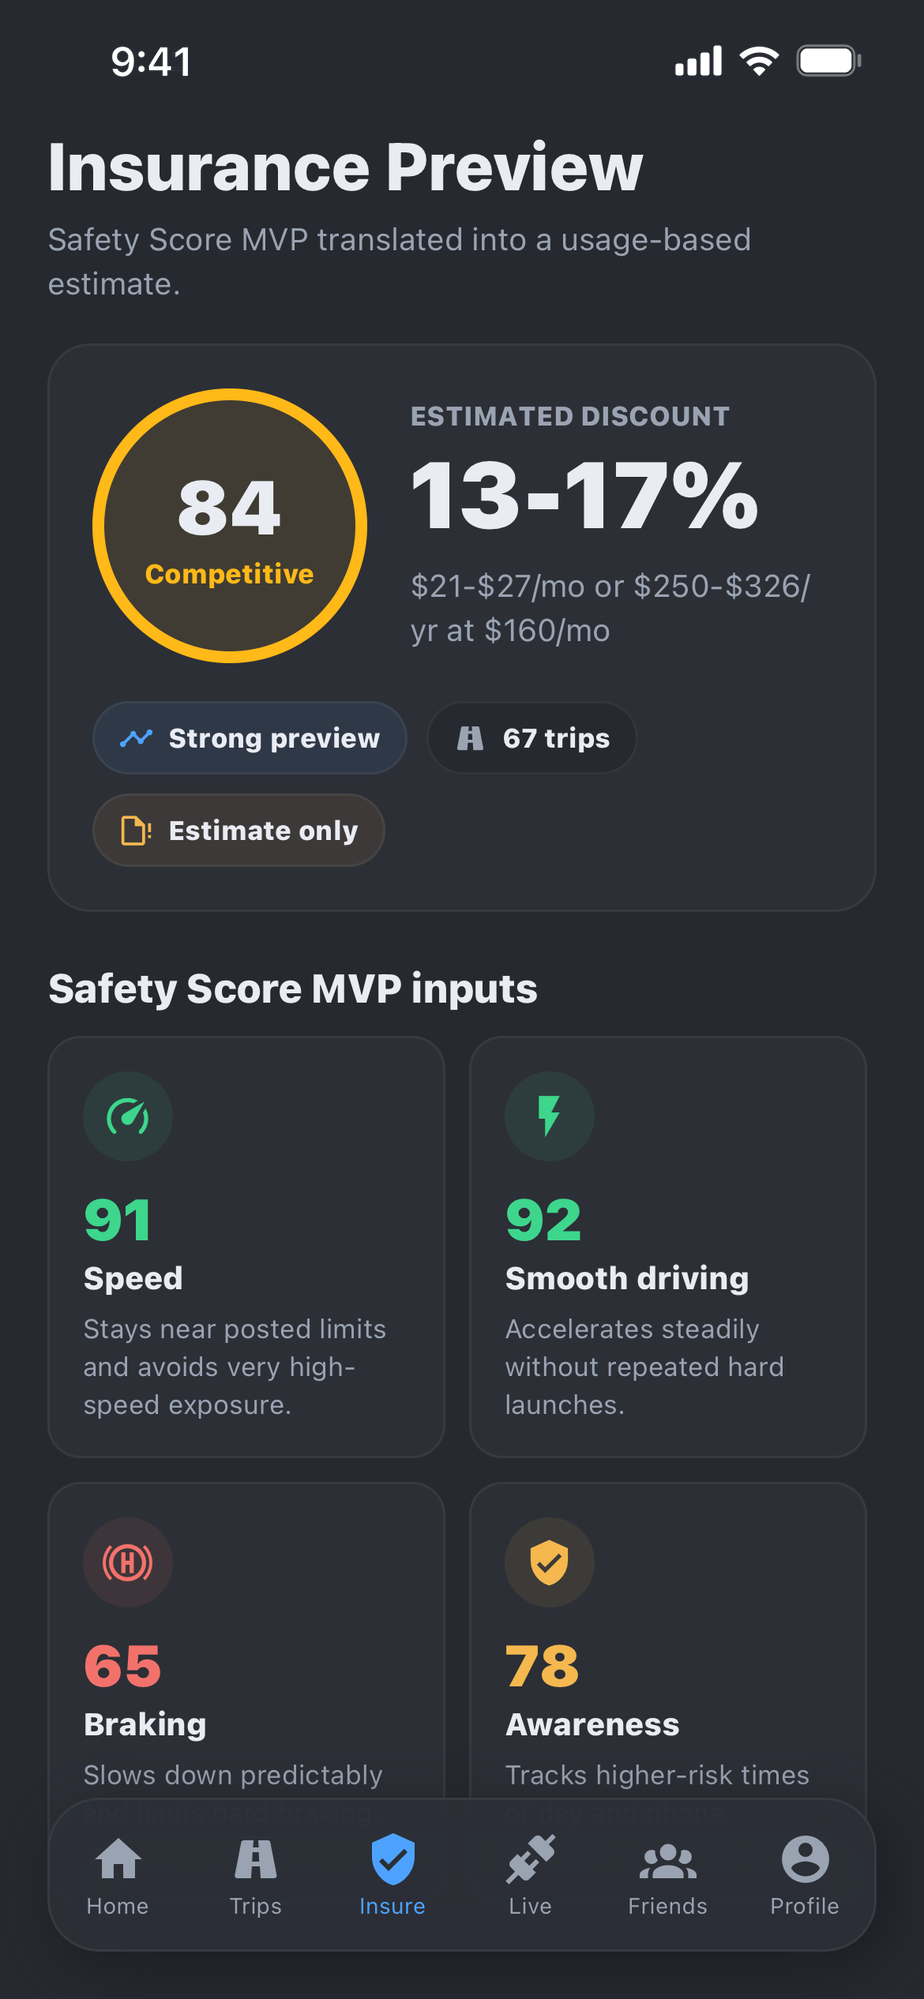
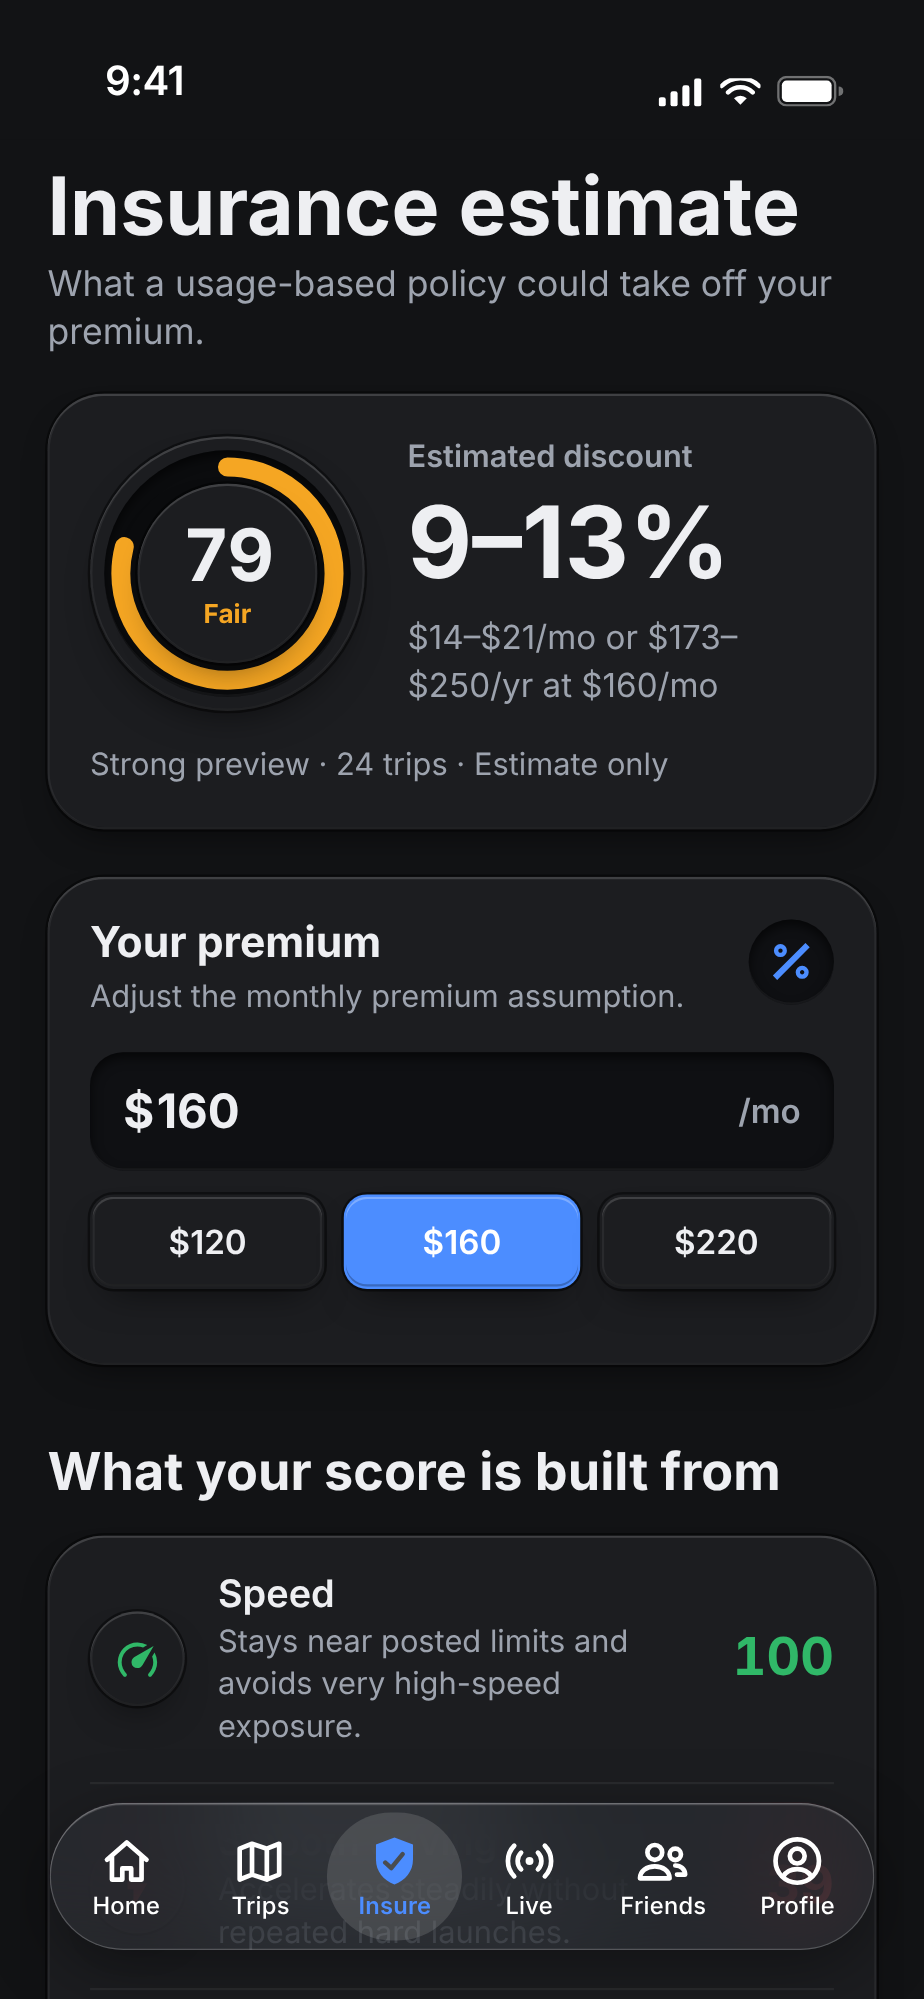
feat: show the current app screens in a natural-titanium frame
Replaces the seven app screenshots with captures of the current app
(redesigned Home, Trips, trip map, Insure, Friends, Profile and its
rewards list, with the iOS tab bar), and updates their alt text to
match what each one now shows. The phone frame's rail and side buttons
take a natural-titanium colour in place of the dark one.

The trip map uses demo data for a public drive, so no real route or
address is published.

Claude-Session: https://claude.ai/code/session_01UBjPSoPJFrpqMYdj42rRvZ

diff --git a/content/site.ts b/content/site.ts
@@ -48,7 +48,7 @@ export const hero = {
   ],
   image: "/images/app/home.png",
   imageAlt:
-    "Wayborne home screen showing a safety score of 84 with sub-scores for speed, smooth driving, braking, and awareness",
+    "Wayborne home screen showing a safety score of 79 with sub-scores for speed, smooth driving, braking, and awareness",
 } as const;
 
 export const showcase = {
@@ -79,7 +79,7 @@ export const trips = {
       heading: "The route behind the score",
       body: "Each trip keeps its own map with the points Wayborne recorded, and pins every safety event to the spot it happened, down to your speed and the limit you passed.",
       image: "/images/app/trip-map.png",
-      alt: "Wayborne trip detail map for a drive on Interstate 90, with a speeding event pinned to the route showing 71 mph in a 65 zone",
+      alt: "Wayborne trip map for a drive on Loop 360, with five safety events pinned along the route",
     },
   ],
 } as const;
@@ -90,7 +90,7 @@ export const insurance = {
   heading: "See what your driving is worth",
   body: "Wayborne translates your safety score into a usage-based insurance estimate: the discount range, what it saves per month and per year, and which behaviors are carrying it.",
   image: "/images/app/insurance.png",
-  alt: "Wayborne insurance preview showing an estimated 13-17% discount based on a safety score of 84",
+  alt: "Wayborne insurance estimate showing a 9-13% estimated discount based on a safety score of 79",
   points: [
     {
       eyebrow: "A range, not a promise.",
@@ -113,7 +113,7 @@ export const progress = {
       heading: "Streaks, tiers, and challenges",
       body: "Keep a driving streak alive, climb from Platinum toward Sapphire, and work through challenges that reward specific habits.",
       image: "/images/app/profile.png",
-      alt: "Wayborne profile screen showing a driving streak, driver percentile, Platinum tier, and challenges",
+      alt: "Wayborne profile screen showing a driving streak, driver percentile, Silver tier, and challenges",
     },
     {
       heading: "Trophies for the long haul",
@@ -130,7 +130,7 @@ export const friends = {
   heading: "Compare scores. Not locations.",
   body: "Add friends by email or invite code and see how your safety score stacks up. Wayborne shares only the summary you choose, never raw trip routes or location points.",
   image: "/images/app/friends.png",
-  alt: "Wayborne friends screen showing a leaderboard and sharing controls",
+  alt: "Wayborne friends screen showing a friend request and a leaderboard",
   points: [
     {
       eyebrow: "You pick what leaves the app.",

diff --git a/components/ui/PhoneFrame.tsx b/components/ui/PhoneFrame.tsx
@@ -42,7 +42,7 @@ const BUTTONS = [
  * so a tall phone capture is never cropped to fit a landscape box; the frame
  * sizes itself to the screenshot instead of the other way around.
  *
- * The frame itself is real hardware rather than a plain rounded pad: a titanium
+ * The frame itself is real hardware rather than a plain rounded pad: a natural-titanium
  * rail catching light from the top-left to match the page's neumorphic lighting,
  * a black bezel inside it, side buttons tucked behind the rail so they read as
  * protruding, and a Dynamic Island over the screen. The island lands in the gap
@@ -64,8 +64,8 @@ export function PhoneFrame({ src, alt, priority = false, className = "", sizes =
             [button.side]: "-2px",
             background:
               button.side === "left"
-                ? "linear-gradient(to right, #14171c, #3b414b)"
-                : "linear-gradient(to left, #14171c, #3b414b)",
+                ? "linear-gradient(to right, #7d766b, #c4bcaf)"
+                : "linear-gradient(to left, #7d766b, #c4bcaf)",
           }}
         />
       ))}
@@ -73,7 +73,7 @@ export function PhoneFrame({ src, alt, priority = false, className = "", sizes =
       {/* The titanium rail. */}
       <div
         className="neu-lg relative rounded-[2.7rem] p-[3px]"
-        style={{ background: "linear-gradient(150deg, #5b626e 0%, #2c313a 26%, #1b1f25 58%, #454c57 100%)" }}
+        style={{ background: "linear-gradient(150deg, #d8d1c5 0%, #aea699 26%, #9a9285 58%, #c4bcaf 100%)" }}
       >
         {/* The black bezel between rail and glass. */}
         <div className="relative overflow-hidden rounded-[2.6rem] bg-[#050607] p-[6px]">
